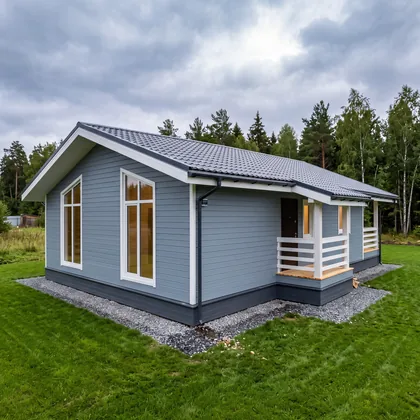
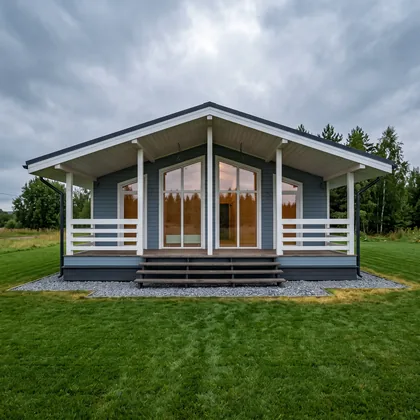
Владивосток 11,5 × 8: фронтальное фото сделано главным, дубль убран

diff --git a/v2/proekt-vladik-115x8-2.html b/v2/proekt-vladik-115x8-2.html
@@ -145,12 +145,12 @@
 
     <section class="sec" id="look">
       <div class="sld" data-sld id="gal-look" tabindex="0" role="group" aria-label="Фотографии дома снаружи и внутри">
-        <div class="sld__main"><img class="is-on" src="../img/vladik-115x8-2-fasad-1.webp" width="1600" height="1600" alt="Фасад с террасой под общей крышей" decoding="async" fetchpriority="high"><img src="../img/vladik-115x8-2-fasad-2.webp" width="1600" height="1600" alt="Дом с угла: терраса и вход" decoding="async" loading="lazy"><img src="../img/vladik-115x8-2-fasad-3.webp" width="1600" height="1600" alt="Вид сбоку: длинная стена" decoding="async" loading="lazy"><img src="../img/vladik-115x8-2-fasad-4.webp" width="1600" height="1600" alt="Торцевой фасад" decoding="async" loading="lazy"><img src="../img/vladik-115x8-2-fasad-5.webp" width="1600" height="1600" alt="Дом от леса" decoding="async" loading="lazy"><img src="../img/vladik-115x8-2-fasad-6.webp" width="1600" height="1600" alt="Терраса и ступени" decoding="async" loading="lazy">
+        <div class="sld__main"><img class="is-on" src="../img/vladik-115x8-2-fasad-1.webp?v=2" width="1600" height="1600" alt="Дом от входа: терраса во всю ширину" decoding="async" fetchpriority="high"><img src="../img/vladik-115x8-2-fasad-2.webp?v=2" width="1600" height="1600" alt="Дом с угла: терраса и ступени" decoding="async" loading="lazy"><img src="../img/vladik-115x8-2-fasad-3.webp?v=2" width="1600" height="1600" alt="Терраса под общей крышей" decoding="async" loading="lazy"><img src="../img/vladik-115x8-2-fasad-4.webp?v=2" width="1600" height="1600" alt="Вид сбоку: длинная стена" decoding="async" loading="lazy"><img src="../img/vladik-115x8-2-fasad-5.webp?v=2" width="1600" height="1600" alt="Торцевой фасад" decoding="async" loading="lazy">
           <button type="button" class="sld__a sld__a--p" aria-label="Предыдущий кадр"><svg viewBox="0 0 24 24" fill="none" stroke="currentColor" stroke-width="1.9" stroke-linecap="round" stroke-linejoin="round" aria-hidden="true"><path d="M15 5l-7 7 7 7"/></svg></button>
           <button type="button" class="sld__a sld__a--n" aria-label="Следующий кадр"><svg viewBox="0 0 24 24" fill="none" stroke="currentColor" stroke-width="1.9" stroke-linecap="round" stroke-linejoin="round" aria-hidden="true"><path d="M9 5l7 7-7 7"/></svg></button>
           <span class="sld__c"></span>
         </div>
-        <div class="sld__th"><button type="button" class="is-on" aria-label="Кадр 1: Фасад с террасой под общей крышей"><img src="../img/vladik-115x8-2-fasad-1-th.webp" alt="" decoding="async" loading="lazy"></button><button type="button" aria-label="Кадр 2: Дом с угла: терраса и вход"><img src="../img/vladik-115x8-2-fasad-2-th.webp" alt="" decoding="async" loading="lazy"></button><button type="button" aria-label="Кадр 3: Вид сбоку: длинная стена"><img src="../img/vladik-115x8-2-fasad-3-th.webp" alt="" decoding="async" loading="lazy"></button><button type="button" aria-label="Кадр 4: Торцевой фасад"><img src="../img/vladik-115x8-2-fasad-4-th.webp" alt="" decoding="async" loading="lazy"></button><button type="button" aria-label="Кадр 5: Дом от леса"><img src="../img/vladik-115x8-2-fasad-5-th.webp" alt="" decoding="async" loading="lazy"></button><button type="button" aria-label="Кадр 6: Терраса и ступени"><img src="../img/vladik-115x8-2-fasad-6-th.webp" alt="" decoding="async" loading="lazy"></button></div>
+        <div class="sld__th"><button type="button" class="is-on" aria-label="Кадр 1: Дом от входа: терраса во всю ширину"><img src="../img/vladik-115x8-2-fasad-1-th.webp?v=2" alt="" decoding="async" loading="lazy"></button><button type="button" aria-label="Кадр 2: Дом с угла: терраса и ступени"><img src="../img/vladik-115x8-2-fasad-2-th.webp?v=2" alt="" decoding="async" loading="lazy"></button><button type="button" aria-label="Кадр 3: Терраса под общей крышей"><img src="../img/vladik-115x8-2-fasad-3-th.webp?v=2" alt="" decoding="async" loading="lazy"></button><button type="button" aria-label="Кадр 4: Вид сбоку: длинная стена"><img src="../img/vladik-115x8-2-fasad-4-th.webp?v=2" alt="" decoding="async" loading="lazy"></button><button type="button" aria-label="Кадр 5: Торцевой фасад"><img src="../img/vladik-115x8-2-fasad-5-th.webp?v=2" alt="" decoding="async" loading="lazy"></button></div>
       </div>
     </section>
     <section class="live" aria-label="Живые фото построенного дома">

diff --git a/v2/index.html b/v2/index.html
@@ -406,7 +406,7 @@
         <div class="pgrid">
           <a class="pcard" href="proekt-vladik-115x8-2.html">
             <span class="pcard__ph">
-              <img src="../img/vladik-115x8-2-fasad-1-th.webp" alt="Каркасный дом «Владивосток 11,5 × 8»" decoding="async" loading="lazy">
+              <img src="../img/vladik-115x8-2-fasad-1-th.webp?v=2" alt="Каркасный дом «Владивосток 11,5 × 8»" decoding="async" loading="lazy">
               <span class="pcard__pill">92&nbsp;м²</span>
             </span>
             <span class="pcard__b">
